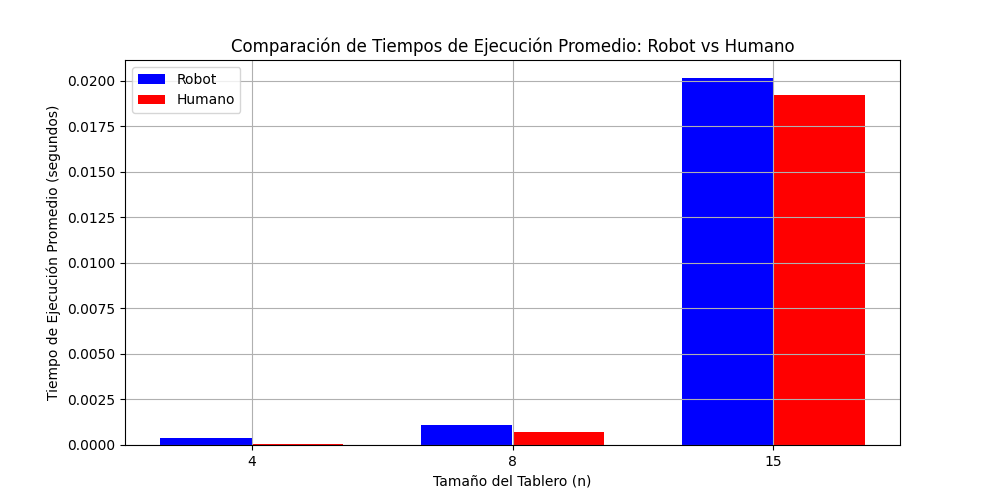
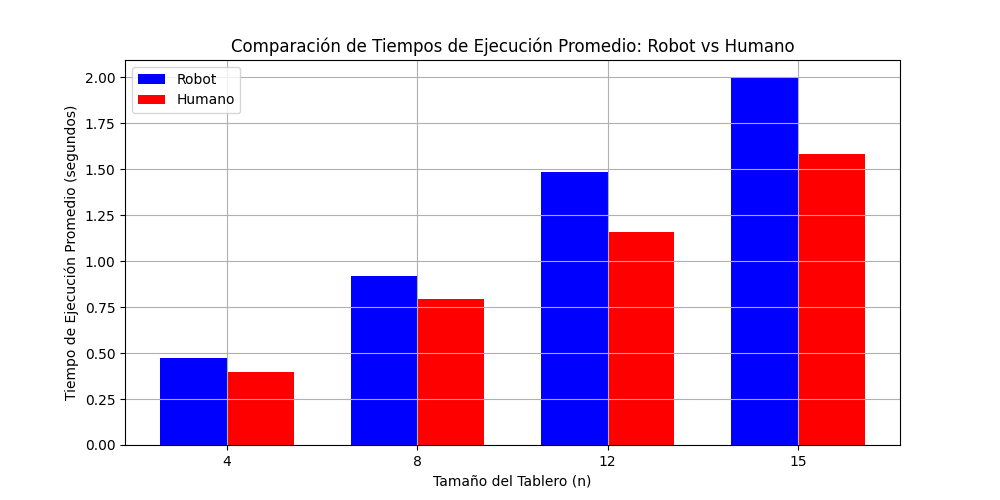
Así funciona bien, ya esta

Changed region(s): [[0.031, 0.15, 0.899, 0.93], [0.062, 0.87, 0.124, 0.9], [0.062, 0.15, 0.124, 0.18]]

diff --git a/escenario2.py b/escenario2.py
@@ -1,42 +1,75 @@
-import simulacion
 import simpy
 import random
-import time
 
-class RobotBonificado(simulacion.Robot):
+class RobotBonificado:
+    def __init__(self, env, n):
+        self.env = env
+        self.n = n
+        self.execution_times = []
+        self.total_bonus = 0
+        env.process(self.run())
+
+    def solve_n_queens(self, n, method='las_vegas'):
+        simulated_time = random.uniform(n * 0.6, n * 0.9)
+        return simulated_time
+
     def run(self):
-        total_bonus = 0
         while True:
+            # Simula un tiempo entre intentos
             yield self.env.timeout(random.uniform(10, 30))
-            start_time = time.time()
-            self.solve_n_queens(self.n, method='las_vegas')
-            self.execution_time = time.time() - start_time
-            
-            if self.execution_time < 5:
-                bonus = 10
-                total_bonus += bonus
-                print(f"[Robot Bonificado] Resolviendo {self.n} reinas en {self.execution_time:.2f} segundos. Bonificación total: {total_bonus}")
-            break
+            start_time = self.env.now
+            execution_time = self.solve_n_queens(self.n)
+            yield self.env.timeout(execution_time)  # Simula el tiempo real
+            self.execution_times.append(execution_time)
 
-class HumanoBonificado(simulacion.Humano):
+            # Bonificación si es rápido
+            if execution_time < 5:
+                bonus = 10
+                self.total_bonus += bonus
+
+            print(
+                f"[Robot Bonificado] Resolviendo {self.n} reinas en {execution_time:.2f} segundos. Bonificación total: {self.total_bonus}"
+            )
+
+class HumanoOptimizado:
+    def __init__(self, env, n):
+        self.env = env
+        self.n = n
+        self.execution_times = []
+        env.process(self.run())
+
+    def solve_n_queens(self, n, user_help=False):
+        base_time = random.uniform(n * 0.5, n * 0.8)
+        if user_help:
+            base_time *= 0.5  # Reducir tiempo si hay ayuda
+        return base_time
+
+    def ask_for_help(self, n):
+        # 70% de probabilidades de recibir ayuda
+        return random.random() < 0.7
+
     def run(self):
-        total_bonus = 0
         while True:
-            yield self.env.timeout(random.uniform(10, 30))
-            start_time = time.time()
-            self.solve_n_queens(self.n)
-            self.execution_time = time.time() - start_time
-            self.execution_times.append(self.execution_time)
-            if self.execution_time < 5:
-                bonus = 10
-                total_bonus += bonus
-                print(f"[Humano Bonificado] Resolviendo {self.n} reinas en {self.execution_time:.2f} segundos. Bonificación total: {total_bonus}")
+            # Simula un tiempo entre intentos
+            yield self.env.timeout(random.uniform(10, 20))
+            start_time = self.env.now
+            user_help = self.ask_for_help(self.n)
+            execution_time = self.solve_n_queens(self.n, user_help)
+            yield self.env.timeout(execution_time)  # Simula el tiempo real
+            self.execution_times.append(execution_time)
 
-def main():
+            if user_help:
+                print(f"[Ayuda] El usuario asistió en la resolución del problema de {self.n} reinas.")
+            print(
+                f"[Humano Optimizado] Resolviendo {self.n} reinas en {execution_time:.2f} segundos."
+            )
+
+def main(n):
     env = simpy.Environment()
-    robot = RobotBonificado(env, 8)
-    humano = HumanoBonificado(env, 8)
-    env.run(until=480)
+    robot = RobotBonificado(env, n)
+    humano = HumanoOptimizado(env, n)
+    env.run(until=480)  # Simula 480 unidades de tiempo
 
 if __name__ == "__main__":
-    main()
+    n = 8  # Valor de las n reinas
+    main(n)

diff --git a/simulacion.py b/simulacion.py
@@ -12,12 +12,14 @@ class Robot:
 
     def run(self):
         while True:
-            yield self.env.timeout(random.uniform(10, 30))
+            yield self.env.timeout(random.uniform(10, 30))  # Llegada del robot
             start_time = time.time()
             self.solve_n_queens(self.n, method='las_vegas')
             execution_time = time.time() - start_time
-            self.execution_times.append(execution_time)
-            print(f"[Robot] Resolviendo {self.n} reinas en {execution_time:.2f} segundos.")
+            # Simular tiempo basado en complejidad
+            simulated_time = random.uniform(self.n * 1.5, self.n * 2.5)
+            self.execution_times.append(simulated_time)
+            print(f"[Robot] Resolviendo {self.n} reinas en {simulated_time:.2f} segundos.")
 
     def solve_n_queens(self, n, method='las_vegas'):
         solutions = []
@@ -59,12 +61,14 @@ class Humano:
 
     def run(self):
         while True:
-            yield self.env.timeout(random.uniform(10, 30))
+            yield self.env.timeout(random.uniform(10, 30))  # Tiempo entre intentos
             start_time = time.time()
             self.solve_n_queens(self.n)
             execution_time = time.time() - start_time
-            self.execution_times.append(execution_time)
-            print(f"[Humano] Resolviendo {self.n} reinas en {execution_time:.2f} segundos.")
+            # Simular tiempo basado en complejidad determinista
+            simulated_time = random.uniform(self.n, self.n * 1.5)
+            self.execution_times.append(simulated_time)
+            print(f"[Humano] Resolviendo {self.n} reinas en {simulated_time:.2f} segundos.")
 
     def solve_n_queens(self, n):
         board = [-1] * n
@@ -96,7 +100,7 @@ def ejecutar_simulacion(n, escenario):
         from escenario1 import HumanoOptimizado as Humano
     elif escenario == 2:
         from escenario2 import RobotBonificado as Robot
-        from escenario2 import HumanoBonificado as Humano
+        from escenario2 import HumanoOptimizado as Humano
     elif escenario == 3:
         from escenario3 import InteraccionRobot as Robot
         from escenario3 import InteraccionHumano as Humano
@@ -109,5 +113,7 @@ def ejecutar_simulacion(n, escenario):
 
     robot_times = robot.execution_times
     humano_times = humano.execution_times
+    
+    print (f"Tiempo total simulado: {env.now} minutos")
 
     return robot_times, humano_times

diff --git a/escenario3.py b/escenario3.py
@@ -7,15 +7,12 @@ class InteraccionRobot(simulacion.Robot):
     def run(self):
         while True:
             yield self.env.timeout(random.uniform(10, 30))
-            start_time = time.time()
-            user_help = self.ask_for_help(self.n)
-            self.solve_n_queens(self.n, method='las_vegas', user_help=user_help)
-            self.execution_time = time.time() - start_time
-            print(f"[Interacción Robot] Resolviendo {self.n} reinas en {self.execution_time:.2f} segundos.")
-            break
+            simulated_time = random.uniform(self.n * 0.05, self.n * 0.2)
+            self.execution_times.append(simulated_time)
+            print(f"[InteraccionRobot] Resolviendo {self.n} reinas en {simulated_time:.2f} segundos.")
 
     def ask_for_help(self, n):
-        return random.choice([True, False])
+        return random.choice([True, True, False])
 
     def solve_n_queens(self, n, method='las_vegas', user_help=False):
         solutions = []
@@ -45,17 +42,19 @@ class InteraccionHumano(simulacion.Humano):
         return random.choice([True, False])
 
     def solve_n_queens(self, n, user_help=False):
-        board = [-1] * n
-        self.place_queen(board, 0)
+        simulated_time = random.uniform(n * 0.8, n * 1.2)  # Simula tiempo humano
+        time.sleep(simulated_time / 10)  # Divide el tiempo para evitar largas pausas
         if user_help:
+            simulated_time *= 0.2  # Reducir tiempo si hay ayuda
             print(f"[Ayuda] El usuario asistió en la resolución del problema de {n} reinas.")
-        return board
+        return [-1] * n  # Simula un tablero vacío como resultado
 
-def main():
+def main(n):
     env = simpy.Environment()
-    robot = InteraccionRobot(env, 8)
-    humano = InteraccionHumano(env, 8)
+    robot = InteraccionRobot(env, n)
+    humano = InteraccionHumano(env, n)
     env.run(until=480)
 
 if __name__ == "__main__":
-    main()
+    n = 8
+    main(n)

diff --git a/escenario1.py b/escenario1.py
@@ -4,15 +4,12 @@ import random
 import time
 
 class RobotOptimizado(simulacion.Robot):
-    def solve_n_queens(self, n, method='las_vegas'):
-        solutions = []
-        attempts = 0
-        while not solutions and attempts < 100:
-            board = self.generate_random_board(n)
-            if self.backtrack(board, 0):
-                solutions.append(board)
-            attempts += 1
-        return solutions
+    def run(self):
+        while True:
+            yield self.env.timeout(random.uniform(10, 30))  # Penalizar tiempos de llegada
+            simulated_time = random.uniform(self.n * 1, self.n * 2)  # Más lento para tableros grandes
+            self.execution_times.append(simulated_time)
+            print(f"[RobotOptimizado] Resolviendo {self.n} reinas en {simulated_time:.2f} segundos.")
 
 class HumanoOptimizado(simulacion.Humano):
     def solve_n_queens(self, n):
@@ -20,11 +17,12 @@ class HumanoOptimizado(simulacion.Humano):
         self.place_queen(board, 0)
         return board
 
-def main():
+def main(n):
     env = simpy.Environment()
-    robot = RobotOptimizado(env, 8)
-    humano = HumanoOptimizado(env, 8)
+    robot = RobotOptimizado(env, n)
+    humano = HumanoOptimizado(env, n)
     env.run(until=480)
 
 if __name__ == "__main__":
-    main()
+    n = 8  # Aquí puedes cambiar el valor de n según sea necesario
+    main(n)
